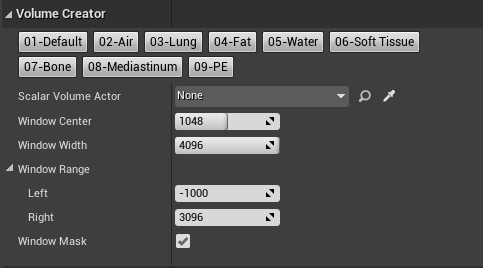
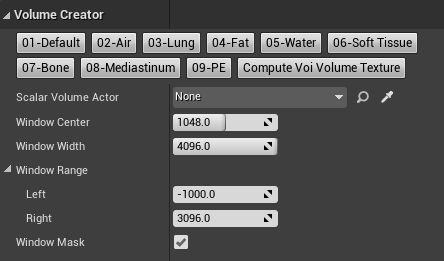
doc: update readme, dmd, fig container

diff --git a/README.md b/README.md
@@ -111,8 +111,8 @@ The plugin provides rendering of image-stack based volumes, commonly known as sc
 
 * **Scalar Volume Actor**: Medical images are imported, e.g., from DICOM files and stored as Hounsfield Units encoded Volume Texture. A Scalar Volume Actor holds a reference to the latter and stores also DICOM pixel spacing attribute values.
 * **Values Of Interest Actor**: A Values Of Interest Actor consumes the Volume Texture from a Scalar Volume Actor and applies DICOM Window Attributes 'Center' and 'Width'.
-* **Multiplanar Rendering Actor**: The DICOM windowed scalar volume may be visualized by multiplanar rendering in a MPR Actor. The MPR Actor as a 3D representation of MPR holds three perpendicular planes, i.e. coronal, sagittal and axial plane. Its dimensions derive from the scalar volume pixel spacing. The planes can be moved in the direction of their corresponding axes interactively in real-time.
-  * **MPR Monitor Actor**: The MPR produces planar rendering, which is also consumed by the MPR Monitor, a 2D representation of MPR.
+* **Multiplanar Rendering Actor**: The DICOM windowed scalar volume may be visualized by multiplanar rendering in a MPR Actor. The MPR Actor as a 3D representation of MPR holds three mutually perpendicular planes, i.e. coronal, sagittal and axial plane. Its dimensions derive from the scalar volume pixel spacing. The planes can be moved in the direction of their corresponding axes interactively in real-time.
+  * **MPR Monitor Actor**: The MPR Actor produces planar rendering, which is also consumed by the MPR Monitor, a 2D representation of MPR.
 * **Direct Volume Rendering Actor**: The DICOM windowed scalar volume may be visualized by direct volume rendering in a DVR Actor. The DVR Actor extent is shown with a bounding box. Its dimension derives from the scalar volume pixel spacing.
   * **Region Of Interest Actor**: Using a region of interest ROI Actor the DVR geometry can be optionally shrinked in real-time.
     * **ROI Handles Actor**: A ROI geometry can be optionally modified with a ROI Handles Actor interactively in real-time.
@@ -120,15 +120,15 @@ The plugin provides rendering of image-stack based volumes, commonly known as sc
   * **Orientation Guide Actor**: The DVR Actor can be optionally attached a rotation synchronized orientation guide.
   * **Spot Light Actor**: The DVR can be optionally illuminated with static spot-lights.
 
-![Domain Model Diagram &mdash; Blueprint Actor Classes in Reference Viewer with Focus on BP_SV](Docs/DMD-SV.png "Domain Model Diagram &mdash; Blueprint Actor Classes in Reference Viewer with Focus on BP_SV")<br>*Fig. 2.2.: Domain Model Diagram &mdash; Blueprint Actor Classes in Reference Viewer with Focus on BP_SV*
+![Domain Model Diagram &mdash; Blueprint Actor Classes in Reference Viewer with Focus on MPR](Docs/DMD-MPR.png "Domain Model Diagram &mdash; Blueprint Actor Classes in Reference Viewer with Focus on MPR")<br>*Fig. 2.2.: Domain Model Diagram &mdash; Blueprint Actor Classes in Reference Viewer with Focus on MPR*
 
-![Domain Model Diagram &mdash; Blueprint Actor Classes in Reference Viewer with Focus on BP_DVR](Docs/DMD-DVR.png "Domain Model Diagram &mdash; Blueprint Actor Classes in Reference Viewer with Focus on BP_DVR")<br>*Fig. 2.3.: Domain Model Diagram &mdash; Blueprint Actor Classes in Reference Viewer with Focus on BP_DVR*
+![Domain Model Diagram &mdash; Blueprint Actor Classes in Reference Viewer with Focus on DVR](Docs/DMD-DVR.png "Domain Model Diagram &mdash; Blueprint Actor Classes in Reference Viewer with Focus on DVR")<br>*Fig. 2.3.: Domain Model Diagram &mdash; Blueprint Actor Classes in Reference Viewer with Focus on DVR*
 
 <div style='page-break-after: always'></div>
 
 ## 3. Import
 
-CT image data is expected to come in Hounsfield Units HU. DICOM image data is stored as 12 bit data, sometimes you also meet 16 bit. A twelve-digit binary number can represent 4096 values or Hounsfield Units resp. (12 bit, 2<sup>12</sup> = 4096). The imported data is clamped to 4096 values in a range of [-1000, 3095]. Let's assume we have a scalar volume as follows (cp. [DICOM, FAQ]):
+CT image data is expected to come in Hounsfield Units HU. DICOM image data is stored as 12 bit data, sometimes you also meet 16 bit. A twelve-digit binary number can represent 4096 values or Hounsfield Units resp. (12 bit, 2<sup>12</sup> = 4096). The imported data is clamped to 4096 values in a range of [-1000, 3096]. Let's assume we have a scalar volume as follows (cp. [DICOM, FAQ]):
 
 * A Stack of 256 images of size 256 x 256 pixel per image = 256<sup>3</sup> pixel or voxel resp.
 * 4 channels RGBA with 8 bit per channel (2<sup>8</sup> = 256, range from 0 to 255) TODO: Update channels and bit per channel
@@ -156,8 +156,8 @@ Workflow:
 
 * Reads from DICOM&reg; files, file name extension `*.dcm`
 * Writes image data temporarely to a Houndsfield Units encoded Volume Texture Render Target `RT_HU_Volume`
-* Saves image data to a new Houndsfield Units encoded Volume Texture asset `T_MyDataName_HU_Volume`
-* Writes meta data&mdash;e.g., DICOM Pixel Spacing&mdash;to a new created Blueprint asset `BP_MyDataName` based on Scalar Volume Actor `BP_SV` and assigns the just created Volume Texture asset `T_MyDataName_HU_Volume`.
+* Saves image data to a newly created Houndsfield Units encoded Volume Texture asset `T_MyDataName_HU_Volume`
+* Writes meta data&mdash;e.g., DICOM Pixel Spacing&mdash;to a newly created Blueprint asset `BP_MyDataName` based on Scalar Volume Actor `BP_SV` and assigns the Volume Texture asset `T_MyDataName_HU_Volume` just created.
 
 ### 3.2. Import MetaImage
 
@@ -171,11 +171,11 @@ Workflow:
 
 ### 4.1. Scalar Volume Actor
 
-Plugin Content:
+Plugin "Volume Creator" provides with an SV Actor (Blueprint Class: `BP_SV`) to handle a Hounsfield Units encoded Volume Texture and its pixel spacing. The SV Actor is an empty Actor and has no mesh.
 
-* Blueprint Class: `BP_SV`
+![Blueprint Actor BP_SV](Docs/BP_SV.png "Blueprint Actor BP_SV")<br>*Fig. 4.1.1.: Blueprint Actor BP_SV*
 
-![Details Panel &ndash; Blueprint Actor BP_SV](Docs/DetailsPanel-BP_SV.png "Details Panel &ndash; Blueprint Actor BP_SV")<br>*Fig. 4.1.: Details Panel &ndash; Blueprint Actor BP_SV*
+![Blueprint Actor BP_SV Details Panel](Docs/DetailsPanel-BP_SV.png "Blueprint Actor BP_SV Details Panel")<br>*Fig. 4.1.2.: Blueprint Actor BP_SV &ndash; Details Panel*
 
 Parameter, Category 'Volume Creator' (cp. figure 'Details Panel'):
 
@@ -222,15 +222,15 @@ Parameter, Category 'Volume Creator' (cp. figure 'Details Panel'):
 
 ### 4.2. Values Of Interest Actor
 
-CT image data is expected to come in Hounsfield Units HU in a range of [-1000, 3095] (cp. section Import) representing 4096 gray levels for different materials where air is defined as -1000 HU and water as 0 HU. Consumer computer screens only can visualize 256 gray levels, represented by a value range of [0, 255]. Therefore the 4096 Hounsfield Units are mapped to the 256 screen gray scale levels. In plugin "Volume Creator" this is done by linear interpolation (Lerp).
+CT image data is expected to come in Hounsfield Units HU in a range of [-1000, 3096] (cp. section Import) representing 4096 gray levels for different materials where air is defined as -1000 HU and water as 0 HU. Consumer computer screens only can visualize 256 gray levels, represented by a value range of [0, 255]. Therefore the 4096 Hounsfield Units are mapped to the 256 screen gray scale levels. In plugin "Volume Creator" this is done by linear interpolation (Lerp).
 
-If the whole range of 4096 Hounsfield data is mapped to 256 gray levels, the contrast becomes quite bad. Therefore, the so called Values Of Interest VOI aka 'DICOM Window' was introduced to downsize the range of Hounsfield data to map. The window is defined by its center and its width. Plugin "Volume Creator" provides with a VOI Actor to handle a DICOM window.
+If the whole range of 4096 Hounsfield data is mapped to 256 gray levels, the contrast becomes quite bad. Therefore, the so called Values Of Interest VOI aka 'DICOM Window' was introduced to downsize the range of Hounsfield data to map. The window is defined by its center and width.
 
-Plugin Content:
+Plugin "Volume Creator" provides with a Values Of Interest VOI Actor (Blueprint Class: `BP_VOI`) to handle a DICOM window. The VOI Actor is an empty Actor and has no mesh. It consumes the Hounsfield Units encoded Volume Texture from a Scalar Volume SV Actor and applies a DICOM window. In the background, the result is hold in a VOI Volume Texture.
 
-* Blueprint Class: `BP_VOI`
+![Blueprint Actor BP_SV](Docs/BP_VOI.png "Blueprint Actor BP_VOI")<br>*Fig. 4.2.1.: Blueprint Actor BP_VOI*
 
-![Details Panel &ndash; Blueprint Actor BP_VOI](Docs/DetailsPanel-BP_VOI.png "Details Panel &ndash; Blueprint Actor BP_VOI")<br>*Fig. 4.2.: Details Panel &ndash; Blueprint Actor BP_VOI*
+![Blueprint Actor BP_VOI Details Panel](Docs/DetailsPanel-BP_VOI.png "Blueprint Actor BP_VOI Details Panel")<br>*Fig. 4.2.2.: Blueprint Actor BP_VOI &ndash; Details Panel*
 
 Parameter, Category 'Volume Creator' (cp. figure 'Details Panel'):
 
@@ -239,49 +239,56 @@ Parameter, Category 'Volume Creator' (cp. figure 'Details Panel'):
   * Default Value: `none`
   * Info: Mandatory, Hounsfield Units data source
 * Window Center
-  * Type: `Integer`
-  * Default Value: `1048`
-  * Range: [`-1000`, `1048`]
+  * Type: `Float`
+  * Default Value: `1048.0`
+  * Range: [`-1000.0`, `3096.0`]
   * Info: Window Center in Hounsfield Units (aka level or brightness)
 * Window Width
-  * Type: `Integer`
-  * Default Value: `4096`
-  * Range: [`1`, `4096`]
+  * Type: `Float`
+  * Default Value: `4096.0`
+  * Range: [`1.0`, `4096.0`]
   * Info: Window Width in Hounsfield Units (aka range or contrast)
-
-<div style='page-break-after: always'></div>
-
 * Window Range
-  * Window Left and Right Border which are calculated, not editable, for information only.
-  * Info: Values between the window left and right border are linear interpolated (lerped) between 0 and 255 by default. Values lesser than the window left border are mapped to 0, values greater than the window right border are mapped to 255 by default.
+  * Left
+    * Type: `Float`
+    * Default Value: `-1000.0`
+    * Range: [`-1000.0`, `3096.0`]
+  * Right
+    * Type: `Float`
+    * Default Value: `3096.0`
+    * Range: [`-1000.0`, `3096.0`]
+  * Info: Window Left and Right Border which are calculated, not editable, for information only.
 * Window Mask
   * Type: `Boolean`
   * Default Value: `true`
-  * Info: To render the lerped values only, a window mask may be applied.
+  * Info: With calculating the VOI Volume Texture, values between the window left and right border are linear interpolated (lerped) in a range of [`0`, `255`] by default. Values equal and lesser than the window left border are mapped to `0`, values equal and greater than the window right border are mapped to `255`. To render the lerped values only, a window mask is applied if parameter 'Window Mask' is set to `true`.
 
-The VOI Range Buttons set Left and Right Border values, Window Center and Width are calculated well:
+If a parameter from above is changed in a VOI Actor instance from the Editor Details Panel, the VOI Volume Texture is not automatically recalculated. Clicking the `Compute Voi Volume Texture` button will trigger this (see figure 4.2.).
 
-| VOI Name    | Window Center  | Window Width  | Left Border | Right Border |
-|-------------|--------:|-------:|--------:|--------:|
-| Default     |  `1048` | `4096` | `-1000` |  `3095` |
-| Air         | `-1000` |    `1` | `-1000` | `-1000` |
-| Lung        |  `-500` |  `201` |  `-600` |  `-400` |
-| Fat         |   `-80` |   `41` |  `-100` |   `-60` |
-| Water       |     `0` |    `1` |     `0` |     `0` |
-| Soft Tissue |    `60` |   `41` |    `40` |    `80` |
-| Bone        |   `700` |  `601` |   `400` |  `1000` |
-| Mediastinum |   `275` |  `451` |    `50` |   `500` |
-| PE          |   `400` |  `601` |   `100` |   `700` |
+The VOI range can also be set by clicking one of the VOI range buttons (see figure 4.2.). The window center and width are calculated from the specified left and right border values (see table 4.2.). Here the VOI Volume Texture is automatically recalculated.
+
+*Table 4.2.: VOI Ranges*<br>
+| VOI Range Name | Left Border | Right Border | Window Center | Window Width |
+|-------------|--------:|--------:|--------:|-------:|
+| Default     | `-1000` |  `3096` |  `1048` | `4096` |
+| Air         | `-1000` | `-1000` | `-1000` |    `1` |
+| Lung        |  `-600` |  `-400` |  `-500` |  `200` |
+| Fat         |  `-100` |   `-60` |   `-80` |   `40` |
+| Water       |     `0` |     `0` |     `0` |    `1` |
+| Soft Tissue |    `40` |    `80` |    `60` |   `40` |
+| Bone        |   `400` |  `1000` |   `700` |  `600` |
+| Mediastinum |    `50` |   `500` |   `275` |  `450` |
+| PE          |   `100` |   `700` |   `400` |  `600` |
 
 <div style='page-break-after: always'></div>
 
 ### 4.3. Multiplanar Rendering Actor
 
-Plugin Content:
+Plugin "Volume Creator" provides with an Multiplanar Rendering MPR Actor (Blueprint Class: `BP_MPR`) to visualize a 3D representation of a DICOM windowed and scalar volume by Coronal, Sagittal and Axial planes arranged perpendicular to one another.
 
-* Blueprint Class: `BP_MPR`
+![Blueprint Actor BP_MPR](Docs/BP_MPR.png "Blueprint Actor BP_MPR")<br>*Fig. 4.3.1.: Blueprint Actor BP_MPR*
 
-![Details Panel &ndash; Blueprint Actor BP_MPR](Docs/DetailsPanel-BP_MPR.png "Details Panel &ndash; Blueprint Actor BP_MPR")<br>*Fig. 4.3.: Details Panel &ndash; Blueprint Actor BP_MPR*
+![Blueprint Actor BP_MPR Details Panel](Docs/DetailsPanel-BP_MPR.png "Blueprint Actor BP_MPR Details Panel")<br>*Fig. 4.3.2.: Blueprint Actor BP_MPR &ndash; Details Panel*
 
 Parameter, Category 'Volume Creator' (cp. figure 'Details Panel'):
 
@@ -308,11 +315,11 @@ Parameter, Category 'Volume Creator' (cp. figure 'Details Panel'):
 
 ### 4.4. Multiplanar Rendering Monitor Actor
 
-Plugin Content:
+Plugin "Volume Creator" provides with a Multiplanar Rendering MPR Monitor Actor (Blueprint Class: `BP_MprMonitor`) to visualize a 2D representation of Coronal, Sagittal and Axial planes consumed from an MPR Actor instance and arranged side by side.
 
-* Blueprint Class: `BP_MprMonitor`
+![Blueprint Actor BP_MprMonitor](Docs/BP_MprMonitor.png "Blueprint Actor BP_MprMonitor")<br>*Fig. 4.4.1.: Blueprint Actor BP_MprMonitor*
 
-![Details Panel &ndash; Blueprint Actor BP_MprMonitor](Docs/DetailsPanel-BP_MprMonitor.png "Details Panel &ndash; Blueprint Actor BP_MprMonitor")<br>*Fig. 4.4.: Details Panel &ndash; Blueprint Actor BP_MprMonitor*
+![Blueprint Actor BP_MprMonitor Details Panel](Docs/DetailsPanel-BP_MprMonitor.png "Blueprint Actor BP_MprMonitor Details Panel")<br>*Fig. 4.4.2.: Blueprint Actor BP_MprMonitor &ndash; Details Panel*
 
 Parameter, Category 'Volume Creator' (cp. figure 'Details Panel'):
 
@@ -325,13 +332,11 @@ Parameter, Category 'Volume Creator' (cp. figure 'Details Panel'):
 
 ### 4.5. Direct Volume Rendering Actor
 
-Direct Volume Rendering DVR with Materials from Raymarching Shaders with static lighting support.
+Plugin "Volume Creator" provides with a Direct Volume Rendering DVR Actor (Blueprint Class: `BP_DVR`) to visualize a 3D representation of a DICOM windowed and direct volume rendered scalar volume. The DVR Actor extent is shown with a bounding box. Its dimension derives from the scalar volume pixel spacing.
 
-Plugin Content:
+![Blueprint Actor BP_DVR](Docs/BP_DVR.png "Blueprint Actor BP_DVR")<br>*Fig. 4.5.1.: Blueprint Actor BP_DVR*
 
-* Blueprint Class: `BP_DVR`
-
-![Details Panel &ndash; Blueprint Actor BP_DVR](Docs/DetailsPanel-BP_DVR.png "Details Panel &ndash; Blueprint Actor BP_DVR")<br>*Fig. 4.5.: Details Panel &ndash; Blueprint Actor BP_DVR*
+![Blueprint Actor BP_DVR Details Panel](Docs/DetailsPanel-BP_DVR.png "Blueprint Actor BP_DVR Details Panel")<br>*Fig. 4.5.2.: Blueprint Actor BP_DVR &ndash; Details Panel*
 
 Parameter, Category 'Volume Creator' (cp. figure 'Details Panel'):
 
@@ -386,11 +391,9 @@ Parameter, Category 'Volume Creator' (cp. figure 'Details Panel'):
 
 ### 4.6. Region Of Interest Actor
 
-Region Of Interest Actor, in Outline Hierarchy (Scene Graph) ideally subordinated directly to the corresponding DVR Actor for adaptive scaling.
+Plugin "Volume Creator" provides with a Region Of Interest ROI Actor (Blueprint Class: `BP_ROI`), with which a DVR Actor geometry can be shrinked in real-time. A ROI Actor instance can be assigned as a parameter in a DVR Actor instance. In the Unreal Editor Outline Hierarchy a ROI Actor is ideally subordinated directly to the corresponding DVR Actor for adaptive scaling.
 
-Plugin Content:
-
-* Blueprint Class: `BP_ROI`
+![Blueprint Actor BP_ROI](Docs/BP_ROI.png "DetailsBlueprint Actor BP_ROI")<br>*Fig. 4.6.1.: Blueprint Actor BP_ROI*
 
 Parameter, Category 'Volume Creator':
 
@@ -398,11 +401,11 @@ Parameter, Category 'Volume Creator':
 
 ### 4.7. Region Of Interest Handles Actor
 
-Plugin Content:
+Plugin "Volume Creator" provides with a Region Of Interest ROI Handles Actor (Blueprint Class: `BP_RoiHandles`), with which a ROI Actor geometry can be modified interactively in real-time.
 
-* Blueprint Class: `BP_RoiHandles`
+![Blueprint Actor BP_RoiHandles](Docs/BP_RoiHandles.png "DetailsBlueprint Actor BP_RoiHandles")<br>*Fig. 4.7.1.: Blueprint Actor BP_RoiHandles*
 
-![Details Panel &ndash; Blueprint Actor BP_RoiHandles](Docs/DetailsPanel-BP_RoiHandles.png "Details Panel &ndash; Blueprint Actor BP_RoiHandles")<br>*Fig. 4.7.: Details Panel &ndash; Blueprint Actor BP_RoiHandles*
+![Blueprint Actor BP_RoiHandles &ndash; Details Panel](Docs/DetailsPanel-BP_RoiHandles.png "Blueprint Actor BP_RoiHandles &ndash; Details Panel")<br>*Fig. 4.7.2.: Blueprint Actor BP_RoiHandles &ndash; Details Panel*
 
 Parameter, Category 'Volume Creator' (cp. figure 'Details Panel'):
 
@@ -415,12 +418,9 @@ Parameter, Category 'Volume Creator' (cp. figure 'Details Panel'):
 
 ### 4.8. Clip Plane Actor
 
-The plugin provides with a Blueprint Actor named `BP_DvrClipPlane` with a `StaticMeshComponent` of type `Plane`. The material instance `MI_Edges_ClipPlane` is assigned to the mesh (see figure 4.6.).
+Plugin "Volume Creator" provides with a Clip Plane Actor (Blueprint Class: `BP_DvrClipPlane`), with which a DVR Actor geometry can be shrinked in real-time.
 
-Plugin Content:
-
-* Blueprint Class: `BP_DvrClipPlane`
-* Material Instance: `MI_Edges_ClipPlane`
+![Blueprint Actor BP_DvrClipPlane](Docs/BP_DvrClipPlane.png "DetailsBlueprint Actor BP_DvrClipPlane")<br>*Fig. 4.8.1.: Blueprint Actor BP_DvrClipPlane*
 
 Parameter, Category 'Volume Creator':
 
@@ -428,11 +428,11 @@ Parameter, Category 'Volume Creator':
 
 ### 4.9. Orientation Guide Actor
 
-Plugin Content:
+Plugin "Volume Creator" provides with a Orientation Guide Actor (Blueprint Class: `BP_DvrOrientationGuide`), which can be attached to a DVR Actor and serves as rotation synchronized orientation guide.
 
-* Blueprint Class: `BP_DvrOrientationGuide`
+![Blueprint Actor BP_DvrOrientationGuide](Docs/BP_DvrOrientationGuide.png "Blueprint Actor BP_DvrOrientationGuide")<br>*Fig. 4.9.1.: Blueprint Actor BP_DvrOrientationGuide*
 
-![Details Panel &ndash; Blueprint Actor BP_DvrOrientationGuide](Docs/DetailsPanel-BP_DvrOrientationGuide.png "Details Panel &ndash; Blueprint Actor BP_DvrOrientationGuide")<br>*Fig. 4.9.: Details Panel &ndash; Blueprint Actor BP_DvrOrientationGuide*
+![Blueprint Actor BP_DvrOrientationGuide Details Panel](Docs/DetailsPanel-BP_DvrOrientationGuide.png "Blueprint Actor BP_DvrOrientationGuide Details Panel")<br>*Fig. 4.9.2.: Blueprint Actor BP_DvrOrientationGuide &ndash; Details Panel*
 
 Parameter, Category 'Volume Creator' (cp. figure 'Details Panel'):
 
@@ -445,13 +445,11 @@ Parameter, Category 'Volume Creator' (cp. figure 'Details Panel'):
 
 ### 4.10. Spot Light Actor
 
-The plugin provides with a Blueprint SpotLight named `BP_DvrSpotLight` whose transform mobility is set to *static*. Its `SpotLightComponent` *Light* parameters are simulating an operating theatre light.
+Plugin "Volume Creator" provides with a Spot Light Actor (Blueprint Class: `BP_DvrSpotLight`), which can be optionally attached to a DVR Actor. The Spot Light Actor will serve as static lighting source to illuminate the direct volume rendering. Its `SpotLightComponent` *Light* parameters are simulating an operating theatre light (see figure 4.10.). By default, the lighting is intended only for the DVR. It is up to the developer whether the light should also affect the world and ray tracing.
 
-Plugin Content:
+![Blueprint Actor BP_DvrSpotLight](Docs/BP_DvrSpotLight.png "Blueprint Actor BP_DvrSpotLight")<br>*Fig. 4.10.1.: Blueprint Actor BP_DvrSpotLight*
 
-* Blueprint Class: `BP_DvrSpotLight`
-
-![Details Panel &ndash; Blueprint Actor BP_DvrSpotLight](Docs/DetailsPanel-BP_DvrSpotLight.png "Details Panel &ndash; Blueprint Actor BP_DvrSpotLight")<br>*Fig. 4.10.: Details Panel &ndash; Blueprint Actor BP_DvrSpotLight*
+![Blueprint Actor BP_DvrSpotLight Details Panel](Docs/DetailsPanel-BP_DvrSpotLight.png "Blueprint Actor BP_DvrSpotLight Details Panel")<br>*Fig. 4.10.2.: Blueprint Actor BP_DvrSpotLight &ndash; Details Panel*
 
 Parameter (cp. figure 'Details Panel'):
 
@@ -481,11 +479,7 @@ The plugin "Volume Creator" elements SV, VOI, MPR and DVR are available as User 
 
 ### 5.1. SV User Widget
 
-Scalar Volume User Widget.
-
-Plugin Content:
-
-* Blueprint Class: User Widget Blueprint `WBP_SV`
+Plugin "Volume Creator" provides with a Scalar Volume SV User Widget Blueprint (Blueprint Class: `WBP_SV`).
 
 ![User Widget Blueprint WBP_SV](Docs/UserWidget-WBP_SV.png "User Widget Blueprint WBP_SV")<br>*Fig. 5.1.: User Widget Blueprint WBP_SV*
 
@@ -500,11 +494,7 @@ Widget Entries:
 
 ### 5.2. VOI User Widget
 
-Values Of Interest User Widget.
-
-Plugin Content:
-
-* Blueprint Class: User Widget Blueprint `WBP_VOI`
+Plugin "Volume Creator" provides with a Values Of Interest VOI User Widget Blueprint (Blueprint Class: `WBP_VOI`).
 
 ![User Widget Blueprint WBP_VOI](Docs/UserWidget-WBP_VOI.png "User Widget Blueprint WBP_VOI")<br>*Fig. 5.2.: User Widget Blueprint WBP_VOI*
 
@@ -519,11 +509,7 @@ Widget Entries:
 
 ### 5.3. MPR User Widget
 
-Multiplanar Rendering User Widget.
-
-Plugin Content:
-
-* Blueprint Class: User Widget Blueprint `WBP_MPR`
+Plugin "Volume Creator" provides with a Multiplanar Rendering MPR User Widget Blueprint (Blueprint Class: `WBP_MPR`).
 
 ![User Widget Blueprint WBP_MPR](Docs/UserWidget-WBP_MPR.png "User Widget Blueprint WBP_MPR")<br>*Fig. 5.3.: User Widget Blueprint WBP_MPR*
 
@@ -536,11 +522,7 @@ Widget Entries:
 
 ### 5.4. DVR User Widget
 
-Direct Volume Rendering User Widget.
-
-Plugin Content:
-
-* Blueprint Class: User Widget Blueprint `WBP_DVR`
+Plugin "Volume Creator" provides with a Direct Volume Rendering DVR User Widget Blueprint (Blueprint Class: `WBP_DVR`).
 
 ![User Widget Blueprint WBP_DVR](Docs/UserWidget-WBP_DVR.png "User Widget Blueprint WBP_DVR")<br>*Fig. 5.4.: User Widget Blueprint WBP_DVR*
 
@@ -559,11 +541,7 @@ The plugin "Volume Creator" User Widget Blueprints SV, VOI, MPR and DVR are also
 
 ### 6.1. SV and VOI UI Abstract Actor
 
-Scalar Volume and Values Of Interest Blueprint Actor, Abstract Class.
-
-Plugin Content:
-
-* Blueprint Class: Blueprint Actor `BP_SvVoi_UI`, Abstract Class
+Scalar Volume and Values Of Interest Blueprint Actor (Blueprint Class: `BP_SvVoi_UI`), Abstract Class.
 
 ![User Interface Blueprint Actor BP_SvVoi_UI](Docs/BlueprintActor-BP_MPR_UI.png "User Interface Blueprint Actor BP_SvVoi_UI")<br>*Fig. 6.1.: User Interface Blueprint Actor BP_SvVoi_UI*
 
@@ -576,11 +554,7 @@ Widget Components:
 
 ### 6.2. MPR UI Actor
 
-Multiplanar Rendering User Interface Blueprint Actor.
-
-Plugin Content:
-
-* Blueprint Class: Blueprint Actor `BP_MPR_UI` (inherits from `BP_SvVoi_UI`)
+Multiplanar Rendering User Interface Blueprint Actor (Blueprint Class: `BP_MPR_UI`, inherits from `BP_SvVoi_UI`).
 
 ![User Interface Blueprint Actor BP_MPR_UI](Docs/BlueprintActor-BP_MPR_UI.png "User Interface Blueprint Actor BP_MPR_UI")<br>*Fig. 6.2.: User Interface Blueprint Actor BP_MPR_UI*
 
@@ -594,11 +568,7 @@ Widget Components:
 
 ### 6.3. DVR UI Actor
 
-Direct Volume Rendering User Interface Blueprint Actor.
-
-Plugin Content:
-
-* Blueprint Class: Blueprint Actor `BP_DVR_UI` (inherits from `BP_SvVoi_UI`)
+Direct Volume Rendering User Interface Blueprint Actor (Blueprint Class: `BP_DVR_UI`, inherits from `BP_SvVoi_UI`).
 
 ![User Interface Blueprint Actor BP_DVR_UI](Docs/BlueprintActor-BP_DVR_UI.png "User Interface Blueprint Actor BP_DVR_UI")<br>*Fig. 6.3.: User Interface Blueprint Actor BP_DVR_UI*
 
@@ -612,11 +582,7 @@ Widget Components:
 
 ### 6.4. MPR and DVR UI Actor
 
-Direct Volume Rendering User Interface Blueprint Actor.
-
-Plugin Content:
-
-* Blueprint Class: Blueprint Actor `BP_MprDvr_UI` (inherits from `BP_MPR_UI`)
+Direct Volume Rendering User Interface Blueprint Actor (Blueprint Class: `BP_MprDvr_UI`, inherits from `BP_MPR_UI`).
 
 ![User Interface Blueprint Actor BP_MprDvr_UI](Docs/BlueprintActor-BP_MprDvr_UI.png "User Interface Blueprint Actor BP_MprDvr_UI")<br>*Fig. 6.4.: User Interface Blueprint Actor BP_MprDvr_UI*
 
